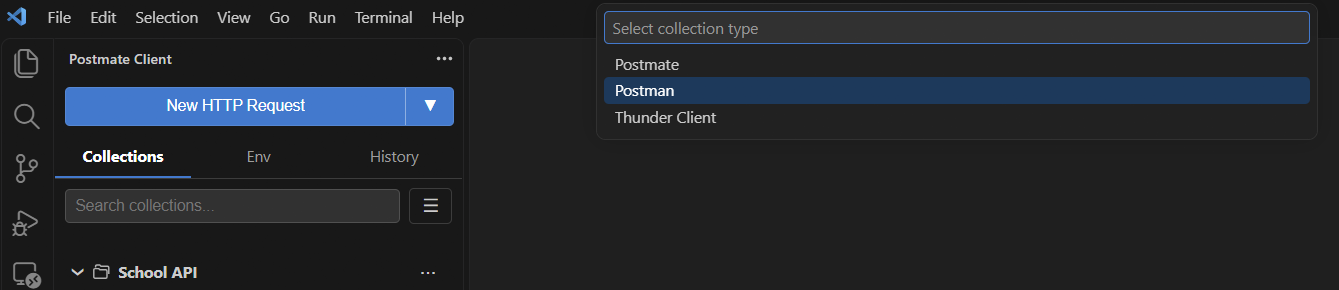
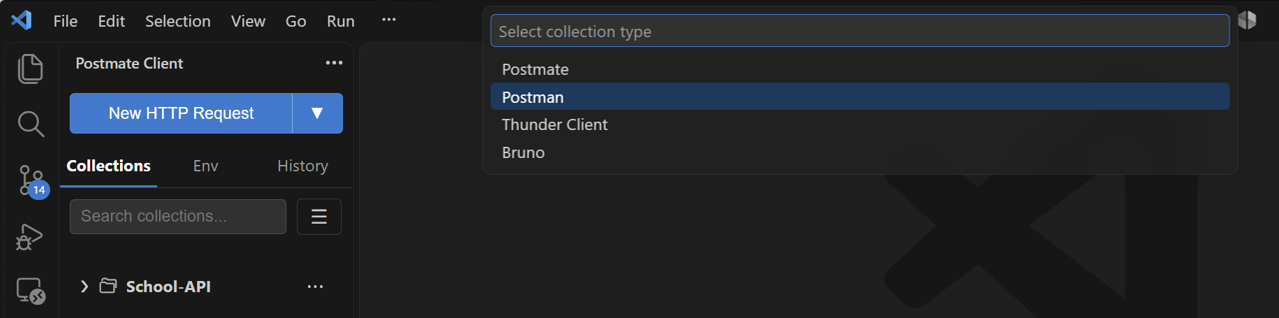
updated bruno

diff --git a/docs/import-export/migrate-from-bruno.md b/docs/import-export/migrate-from-bruno.md
@@ -18,6 +18,10 @@ The exact list depends on your Bruno version. The steps below show the Postman e
 
 > *Tested with Bruno v4.2.0 on Windows, November 2026.*
 
+::: tip Moving to Postmate Client? You can skip the export
+Postmate Client 2.8.2 and later imports a Bruno collection folder directly: requests, folders, auth, scripts and environments, with no Postman file in between. See [Option B](#option-b-import-the-bruno-folder-directly-into-postmate-client).
+:::
+
 ## Step 1: Export your collection from Bruno
 
 1. Open your collection in **Bruno**.
@@ -46,14 +50,39 @@ Now pick your destination.
 
 Your collection appears in the sidebar with its folder structure intact.
 
-## Option B: Import into Postmate Client
+## Option B: Import the Bruno folder directly into Postmate Client
+
+No export needed. Postmate Client 2.8.2 and later reads the collection folder Bruno saves on your disk.
+
+1. In the **Postmate Client sidebar**, click the **hamburger menu (☰)** next to the collection search bar and select **Import Collection**.
+2. From the **"Select collection type"** dropdown, choose **Bruno**.
+3. Pick your Bruno collection folder: the one that contains `opencollection.yml`. If you pick the folder above it, Postmate finds the collection inside, or lets you choose when there are several.
+4. If the collection uses variables that none of its environments define, Postmate asks where to put them, the same as in a Postman import.
+
+Postmate imports the collection and its environments, then shows one summary notification listing anything that couldn't come across.
+
+**What the direct import brings over**
+
+- ✅ Requests, folders and Markdown docs
+- ✅ Headers and auth set on a folder or the collection. Postmate applies them to each request, so inherited auth keeps working
+- ✅ `bru.runRequest("Login")` becomes a Postmate pre-request, so a request that logs in first still does
+- ✅ Common script calls are translated: `res.getBody()` → `RESPONSE.body`, `bru.setVar()` → `pm.setVariable()`, `test()` / `expect()` → `pm.test()` / `pm.expect()`
+- ✅ Environments, including ones that extend another environment. New variables are added; values you already have in Postmate are never overwritten
+- ⚠ Secret variables come across with an empty value. Bruno keeps secret values outside the collection, and Postmate doesn't read them, so fill them in the **Env** tab
+- ⚠ Collection- and folder-level scripts, gRPC and WebSocket requests, digest/NTLM auth and file fields in multipart bodies are left out and listed in the summary
+
+**Older `.bru` collections:** the direct import supports Bruno's YAML format (OpenCollection), which has `opencollection.yml` in the collection folder. If your collection has `bruno.json` and `.bru` files instead, Postmate tells you so. Use [Option C](#option-c-import-the-postman-export-into-postmate-client) for those.
+
+## Option C: Import the Postman export into Postmate Client
+
+Use this for collections in Bruno's older `.bru` format, or if you already have the Postman export from Step 1.
 
 1. In the **Postmate Client sidebar**, click the **hamburger menu (☰)** next to the collection search bar.
 
    ![Postmate Client collections panel hamburger menu showing Import Collection option](/postman-import-menu.png)
    *Click the hamburger icon above your collections list to open the import menu.*
 
-2. Select **Import Postman/Postmate**.
+2. Select **Import Collection**.
 3. From the **"Select collection type"** dropdown, choose **Postman**.
 
    ![Postmate Client collection type selector showing Postmate and Postman options](/postman-import-select-type.png)
@@ -101,8 +130,6 @@ By default, Bruno translates common Postman script calls (such as `pm.test` and 
 2. In Bruno, click the **Environments** icon (top-right) → **Configure environments** → **Import environment**.
 3. Select the file. If an environment with the same name exists, choose **Replace**, **New** or **Skip**.
 
-See [Bruno's Postman migration guide](https://docs.usebruno.com/get-started/import-export-data/postman-migration) for bulk imports and the full list of translated script APIs.
-
 If you're leaving Postman because of the login requirement or cloud sync, Bruno isn't the only local-first option. See [migrating from Postman to Postmate Client](/import-export/migrate-from-postman) for a VS Code-native alternative.
 
 ## Quick reference
@@ -112,7 +139,8 @@ If you're leaving Postman because of the login requirement or cloud sync, Bruno 
 | 1 | In Bruno, collection **•••** menu → **Share** → **Export** → choose a format |
 | 2 | Click **Proceed** and save the file |
 | 3a | **To Postman:** **Import** → drag the `.json` file → **Import** |
-| 3b | **To Postmate Client:** **☰** → **Import Postman/Postmate** → choose **Postman** → select the `.json` file |
+| 3b | **To Postmate Client (no export):** **☰** → **Import Collection** → choose **Bruno** → select the collection folder |
+| 3c | **To Postmate Client (`.bru` collections):** **☰** → **Import Collection** → choose **Postman** → select the exported `.json` file |
 | 4 | Run the collection once and review scripts and assertions |
 | ↩ | **Postman → Bruno:** export from Postman as Collection v2.1, then in Bruno **+** → **Import Collection** |
 
@@ -148,9 +176,9 @@ You don't need one. Bruno has a built-in Postman export: **•••** → **Sha
 
 Export the collection from Postman as **Collection v2.1**, then in Bruno click **+** in the top-left sidebar → **Import Collection** and select the file. Environments are imported separately from **Environments → Configure environments → Import environment**.
 
-### Do I need a special Bruno importer for Postmate Client?
+### Can Postmate Client import a Bruno collection without exporting it?
 
-No. Bruno exports in Postman format, and Postmate Client imports Postman collections natively.
+Yes, from version 2.8.2. Choose **Bruno** as the collection type and pick the collection folder. It brings over requests, folders, auth, scripts and environments. For collections in the older `.bru` format, export to Postman from Bruno and import that file instead.
 
 ### Are gRPC requests included in the Postman export?
 
@@ -162,7 +190,7 @@ Not the ones in Bruno's **Assert** tab. They are left out of the Postman export,
 
 ### Will my Bruno scripts work after import?
 
-Mostly, yes. Bruno's Postman export translates common `bru.*` calls into `pm.*`, and Postmate Client converts those into its own `pm` library when you import. Run the collection once afterwards, and fix any script that uses a Bruno API without a `pm` equivalent.
+Mostly, yes. With the direct import, Postmate Client translates common `bru.*` and `res.*` calls itself and turns `bru.runRequest` into a pre-request. With the Postman route, Bruno's export translates `bru.*` calls into `pm.*` and Postmate converts those on import. Either way, run the collection once afterwards; any script call without a Postmate equivalent is listed in the import summary.
 
 ## Share your feedback
 
